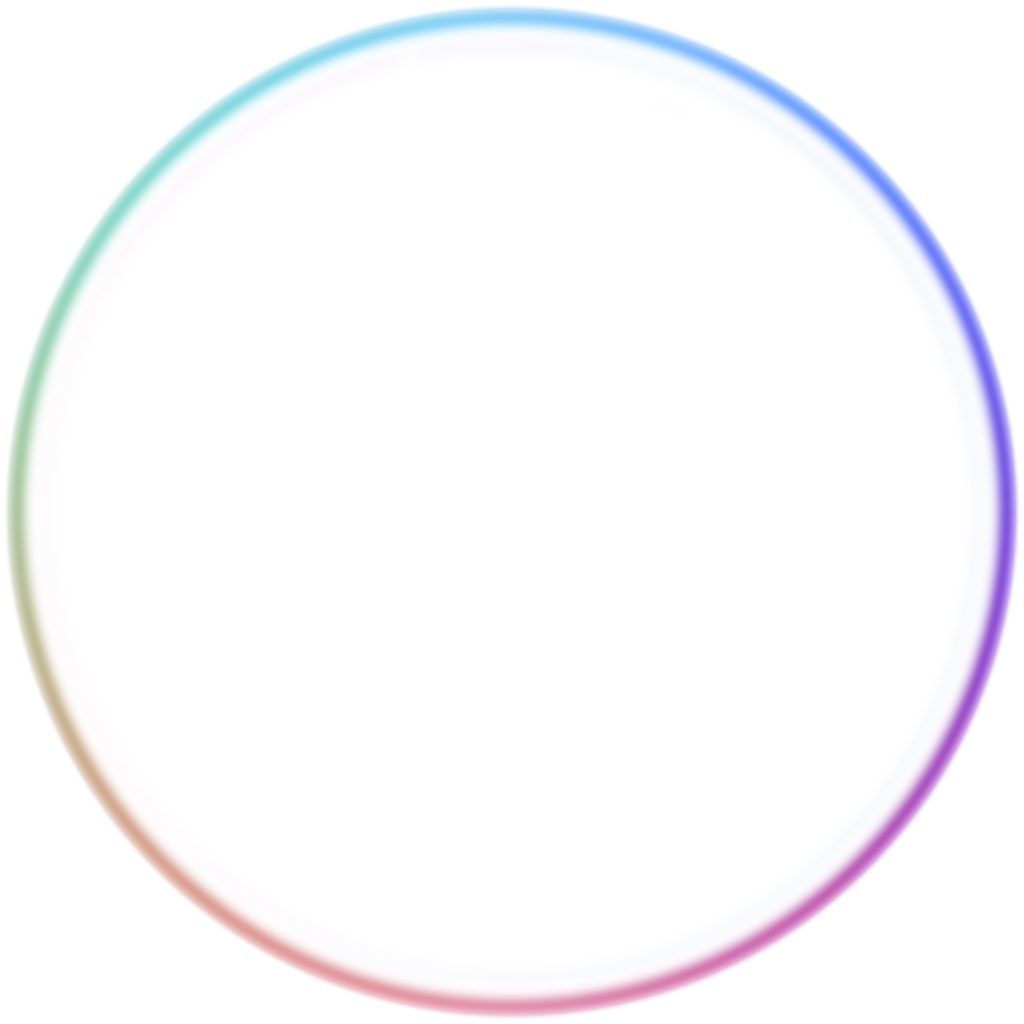
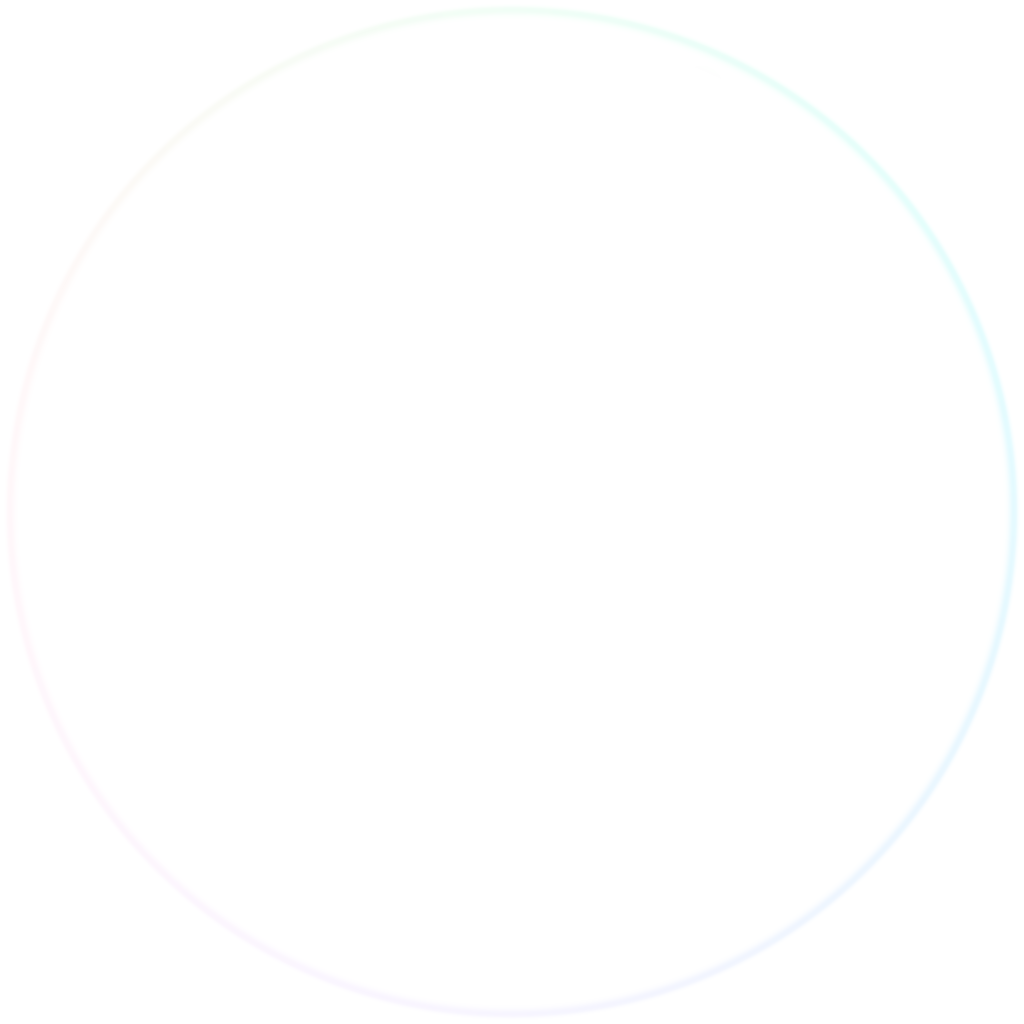
Ship v21 high-key white soap-bubble overlay
Replace the saturated v20 rainbow/neon rim with the locked
clear-bubble PNG (thin faint white rim, small upper-right
specular, empty center). Cache-bust to v=21. One start orb,
no milk, no garden PR merge.

Changed region(s): [[0.0, 0.0, 1.0, 1.0]]

diff --git a/assets/css/theme.css b/assets/css/theme.css
@@ -172,7 +172,7 @@ body.home:not(.has-article) .stage {
   background: transparent;
   backdrop-filter: none;
   -webkit-backdrop-filter: none;
-  border: 1px solid rgba(255, 255, 255, 0.55);
+  border: 1px solid rgba(255, 255, 255, 0.62);
   box-shadow: none;
   overflow: hidden;
   clip-path: circle(50%);
@@ -181,13 +181,13 @@ body.home:not(.has-article) .stage {
   width: 100%;
   height: 100%;
 }
-/* Iridescent rim + top specular film. Transparent center. Below text. */
+/* High-key white soap-bubble film. Transparent center. Below text. */
 .orb::before {
   content: "";
   position: absolute;
   inset: 0;
   border-radius: 50%;
-  background: url("../img/orb-glass.png?v=20") center / 100% 100% no-repeat;
+  background: url("../img/orb-glass.png?v=21") center / 100% 100% no-repeat;
   pointer-events: none;
   z-index: 2;
   mix-blend-mode: normal;

diff --git a/anlaggning.html b/anlaggning.html
@@ -8,7 +8,7 @@
   <link rel="preconnect" href="https://fonts.googleapis.com">
   <link rel="preconnect" href="https://fonts.gstatic.com" crossorigin>
   <link href="https://fonts.googleapis.com/css2?family=Inter:wght@400;500;650&display=swap" rel="stylesheet">
-  <link rel="stylesheet" href="assets/css/site.css?v=20">
+  <link rel="stylesheet" href="assets/css/site.css?v=21">
   <link rel="stylesheet" href="assets/css/landings.css?v=7">
 </head>
 <body class="home has-article landing-anlagg" data-intent="garden.anlaggning">

diff --git a/plantering.html b/plantering.html
@@ -8,7 +8,7 @@
   <link rel="preconnect" href="https://fonts.googleapis.com">
   <link rel="preconnect" href="https://fonts.gstatic.com" crossorigin>
   <link href="https://fonts.googleapis.com/css2?family=Inter:wght@400;500;650&display=swap" rel="stylesheet">
-  <link rel="stylesheet" href="assets/css/site.css?v=20">
+  <link rel="stylesheet" href="assets/css/site.css?v=21">
   <link rel="stylesheet" href="assets/css/landings.css?v=7">
 </head>
 <body class="home has-article landing-plantera" data-intent="garden.plantera">

diff --git a/beskarning.html b/beskarning.html
@@ -8,7 +8,7 @@
   <link rel="preconnect" href="https://fonts.googleapis.com">
   <link rel="preconnect" href="https://fonts.gstatic.com" crossorigin>
   <link href="https://fonts.googleapis.com/css2?family=Inter:wght@400;500;650&display=swap" rel="stylesheet">
-  <link rel="stylesheet" href="assets/css/site.css?v=20">
+  <link rel="stylesheet" href="assets/css/site.css?v=21">
   <link rel="stylesheet" href="assets/css/landings.css?v=7">
 </head>
 <body class="home has-article landing-beskar" data-intent="garden.beskar">

diff --git a/robotgrasklippare-goteborg.html b/robotgrasklippare-goteborg.html
@@ -8,7 +8,7 @@
   <link rel="preconnect" href="https://fonts.googleapis.com">
   <link rel="preconnect" href="https://fonts.gstatic.com" crossorigin>
   <link href="https://fonts.googleapis.com/css2?family=Inter:wght@400;500;650&display=swap" rel="stylesheet">
-  <link rel="stylesheet" href="assets/css/site.css?v=20">
+  <link rel="stylesheet" href="assets/css/site.css?v=21">
   <link rel="stylesheet" href="assets/css/landings.css?v=7">
 </head>
 <body class="home has-article landing-robot" data-intent="robot.service">

diff --git a/robotgrasklippare-kungsbacka.html b/robotgrasklippare-kungsbacka.html
@@ -8,7 +8,7 @@
   <link rel="preconnect" href="https://fonts.googleapis.com">
   <link rel="preconnect" href="https://fonts.gstatic.com" crossorigin>
   <link href="https://fonts.googleapis.com/css2?family=Inter:wght@400;500;650&display=swap" rel="stylesheet">
-  <link rel="stylesheet" href="assets/css/site.css?v=20">
+  <link rel="stylesheet" href="assets/css/site.css?v=21">
   <link rel="stylesheet" href="assets/css/landings.css?v=7">
 </head>
 <body class="home has-article landing-robot" data-intent="robot.service">

diff --git a/robotgrasklippare-varberg.html b/robotgrasklippare-varberg.html
@@ -8,7 +8,7 @@
   <link rel="preconnect" href="https://fonts.googleapis.com">
   <link rel="preconnect" href="https://fonts.gstatic.com" crossorigin>
   <link href="https://fonts.googleapis.com/css2?family=Inter:wght@400;500;650&display=swap" rel="stylesheet">
-  <link rel="stylesheet" href="assets/css/site.css?v=20">
+  <link rel="stylesheet" href="assets/css/site.css?v=21">
   <link rel="stylesheet" href="assets/css/landings.css?v=7">
 </head>
 <body class="home has-article landing-robot" data-intent="robot.service">

diff --git a/robotgrasklippare.html b/robotgrasklippare.html
@@ -8,7 +8,7 @@
   <link rel="preconnect" href="https://fonts.googleapis.com">
   <link rel="preconnect" href="https://fonts.gstatic.com" crossorigin>
   <link href="https://fonts.googleapis.com/css2?family=Inter:wght@400;500;650&display=swap" rel="stylesheet">
-  <link rel="stylesheet" href="assets/css/site.css?v=20">
+  <link rel="stylesheet" href="assets/css/site.css?v=21">
   <link rel="stylesheet" href="assets/css/landings.css?v=7">
 </head>
 <body class="home has-article landing-robot" data-intent="robot.service">

diff --git a/altantvatt.html b/altantvatt.html
@@ -8,7 +8,7 @@
   <link rel="preconnect" href="https://fonts.googleapis.com">
   <link rel="preconnect" href="https://fonts.gstatic.com" crossorigin>
   <link href="https://fonts.googleapis.com/css2?family=Inter:wght@400;500;650&display=swap" rel="stylesheet">
-  <link rel="stylesheet" href="assets/css/site.css?v=20">
+  <link rel="stylesheet" href="assets/css/site.css?v=21">
   <link rel="stylesheet" href="assets/css/landings.css?v=7">
 </head>
 <body class="home has-article landing-altan" data-intent="garden.altan">

diff --git a/ograsrensning.html b/ograsrensning.html
@@ -8,7 +8,7 @@
   <link rel="preconnect" href="https://fonts.googleapis.com">
   <link rel="preconnect" href="https://fonts.gstatic.com" crossorigin>
   <link href="https://fonts.googleapis.com/css2?family=Inter:wght@400;500;650&display=swap" rel="stylesheet">
-  <link rel="stylesheet" href="assets/css/site.css?v=20">
+  <link rel="stylesheet" href="assets/css/site.css?v=21">
   <link rel="stylesheet" href="assets/css/landings.css?v=7">
 </head>
 <body class="home has-article landing-ogras" data-intent="garden.ogras">

diff --git a/grasklippning.html b/grasklippning.html
@@ -8,7 +8,7 @@
   <link rel="preconnect" href="https://fonts.googleapis.com">
   <link rel="preconnect" href="https://fonts.gstatic.com" crossorigin>
   <link href="https://fonts.googleapis.com/css2?family=Inter:wght@400;500;650&display=swap" rel="stylesheet">
-  <link rel="stylesheet" href="assets/css/site.css?v=20">
+  <link rel="stylesheet" href="assets/css/site.css?v=21">
   <link rel="stylesheet" href="assets/css/landings.css?v=7">
 </head>
 <body class="home has-article landing-grass" data-intent="garden.gras">

diff --git a/hackklippning-goteborg.html b/hackklippning-goteborg.html
@@ -8,7 +8,7 @@
   <link rel="preconnect" href="https://fonts.googleapis.com">
   <link rel="preconnect" href="https://fonts.gstatic.com" crossorigin>
   <link href="https://fonts.googleapis.com/css2?family=Inter:wght@400;500;650&display=swap" rel="stylesheet">
-  <link rel="stylesheet" href="assets/css/site.css?v=20">
+  <link rel="stylesheet" href="assets/css/site.css?v=21">
   <link rel="stylesheet" href="assets/css/landings.css?v=7">
 </head>
 <body class="home has-article landing-hack" data-intent="garden.hack">
